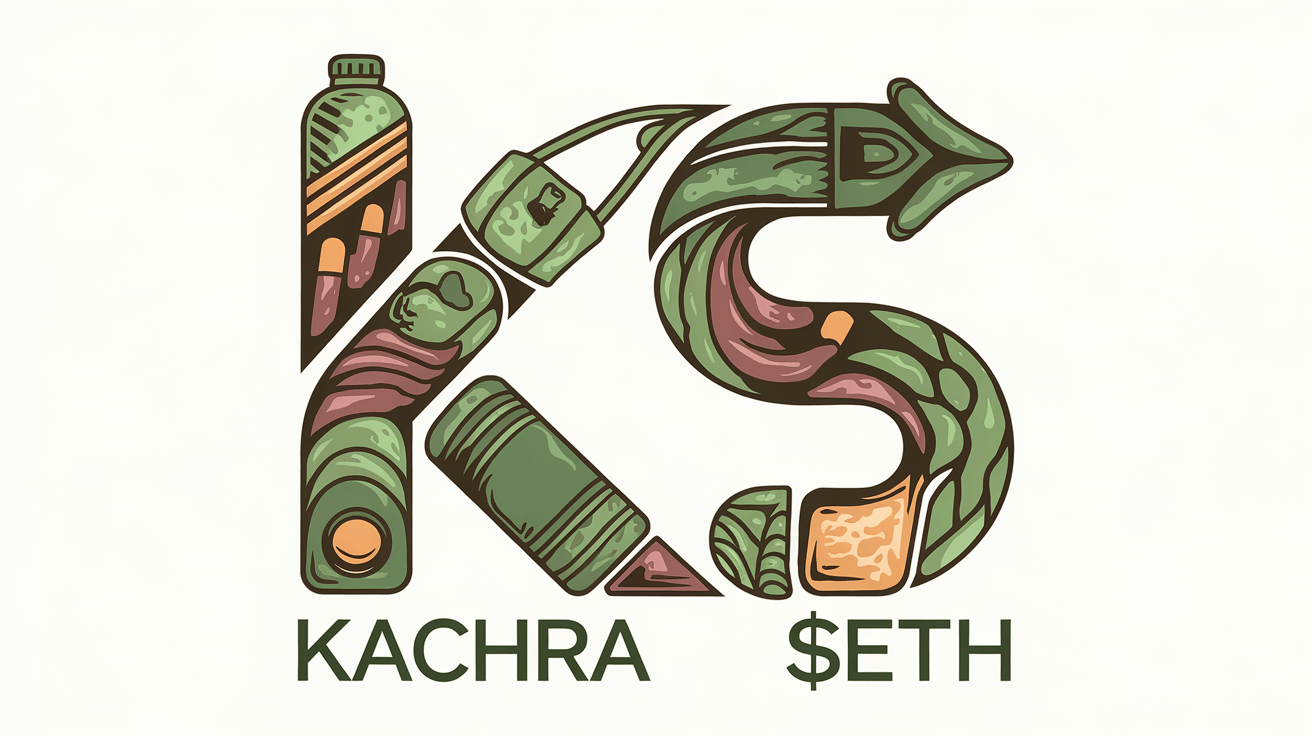
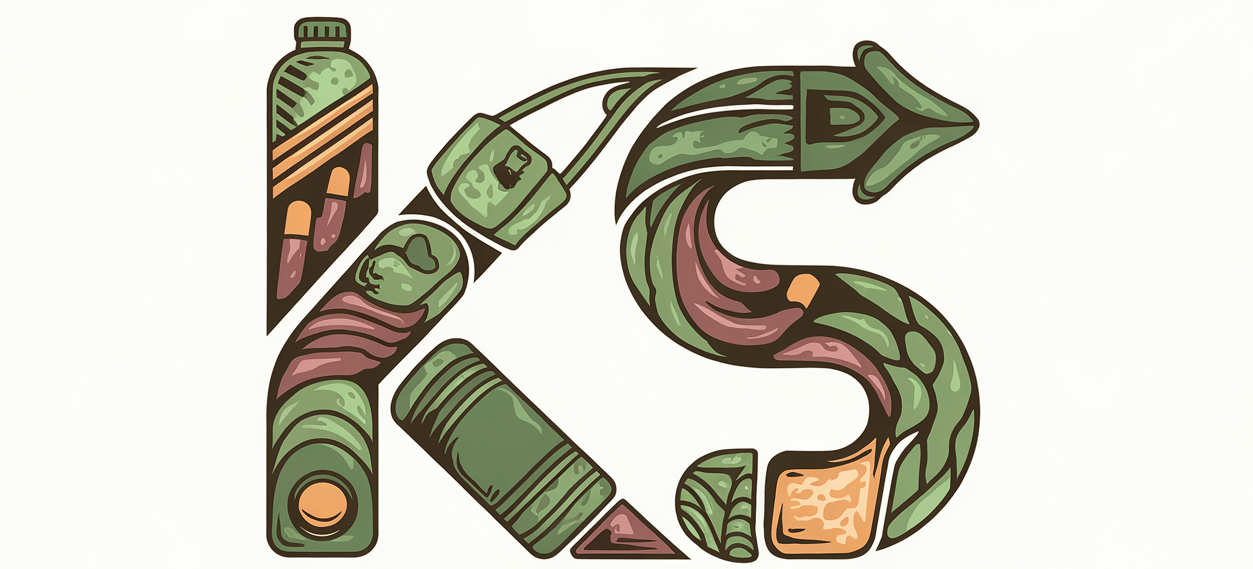
change in ui

diff --git a/frontend/src/pages/Hero.jsx b/frontend/src/pages/Hero.jsx
@@ -21,19 +21,19 @@ function Hero() {
                     {/* Right-aligned Text Content */}
                     <CardContent sx={{ padding: 3, width: '50%' }}>
                         <Typography variant="h3" gutterBottom>
-                            Kachra Seth: Turning Waste into Value
+                            Home $crapper: Turning Waste into Value
                         </Typography>
                         <Typography variant="h5" gutterBottom>
                             Component 1: Recyclable Waste Marketplace
                         </Typography>
                         <Typography variant="body1" sx={{ color: 'text.secondary', marginBottom: 2 }}>
-                            Connect with trusted vendors for fair pricing and accurate weighing of your recyclable household waste. Kachra Seth acts as a mediator, ensuring transparency and reliability, helping you earn back value on items like newspapers, plastics, and more, while promoting responsible recycling.
+                            Connect with trusted vendors for fair pricing and accurate weighing of your recyclable household waste. Home $crapper acts as a mediator, ensuring transparency and reliability, helping you earn back value on items like newspapers, plastics, and more, while promoting responsible recycling.
                         </Typography>
                         <Typography variant="h5" gutterBottom>
                             Component 2: Give a Second Life to Your Belongings.
                         </Typography>
                         <Typography variant="body1" sx={{ color: 'text.secondary' }}>
-                            Donate or sell items like books and electronics to people who need them, fostering a sustainable community. Whether donating or selling at low cost, Kachra Seth makes it easy to repurpose valuable items and reduce waste.
+                            Donate or sell items like books and electronics to people who need them, fostering a sustainable community. Whether donating or selling at low cost, Home $crapper makes it easy to repurpose valuable items and reduce waste.
                         </Typography>
                     </CardContent>
                 </Card>

diff --git a/frontend/src/pages/HomeOptions.jsx b/frontend/src/pages/HomeOptions.jsx
@@ -57,7 +57,7 @@ function Options() {
                     Indulge in the world of RECYCLABLE TRADE :- Recyclable Waste Marketplace.
                     </Typography>
                     <Typography variant="body1" sx={{ color: 'text.secondary', marginBottom: 2 }}>
-                        Connect with trusted vendors for fair pricing and accurate weighing of your recyclable household waste. Kachra Seth acts as a mediator, ensuring transparency and reliability, helping you earn back value on items like newspapers, plastics, and more, while promoting responsible recycling.
+                        Connect with trusted vendors for fair pricing and accurate weighing of your recyclable household waste. Home $crapper acts as a mediator, ensuring transparency and reliability, helping you earn back value on items like newspapers, plastics, and more, while promoting responsible recycling.
                     </Typography>
                 </CardContent>
             </Card>
@@ -93,7 +93,7 @@ function Options() {
                     Indulge in the world of Charitable Goods :-  Give a Second Life to Your Belongings.
                     </Typography>
                     <Typography variant="body1" sx={{ color: 'text.secondary' }}>
-                        Donate or sell items like books and electronics to people who need them, fostering a sustainable community. Whether donating or selling at low cost, Kachra Seth makes it easy to repurpose valuable items and reduce waste.
+                        Donate or sell items like books and electronics to people who need them, fostering a sustainable community. Whether donating or selling at low cost, Home $crapper makes it easy to repurpose valuable items and reduce waste.
                     </Typography>
                 </CardContent>
             </Card>

diff --git a/frontend/src/pages/Appbar.jsx b/frontend/src/pages/Appbar.jsx
@@ -1,5 +1,5 @@
 import { useAuth0 } from '@auth0/auth0-react';
-import logo from "../assets/logo2.png";
+import logo from "../assets/logo.png";
 import { useNavigate, Link } from 'react-router-dom';
 import { useState } from 'react';
 import { Toolbar, Typography, Box, AppBar, Button, IconButton } from '@mui/material';
@@ -24,8 +24,8 @@ function Appbar() {
       <AppBar position="fixed" sx={{ backgroundColor: '#F5F5F5', color: 'black', px: 3, py: 1 }}>
         <Toolbar sx={{ justifyContent: 'space-between', alignItems: 'center' }}>
           {/* Logo */}
-          <Box component={Link} to="/" sx={{ display: 'flex', alignItems: 'center', textDecoration: 'none' }}>
-            <img src={logo} width={130} height={60} alt="logo" />
+          <Box component={Link} to="/" sx={{ display: 'flex', justifyContent: "left", textDecoration: 'none' }}>
+            <img src={logo} width={130} height={100} alt="logo" />
           </Box>
 
           {/* Navigation Links */}
